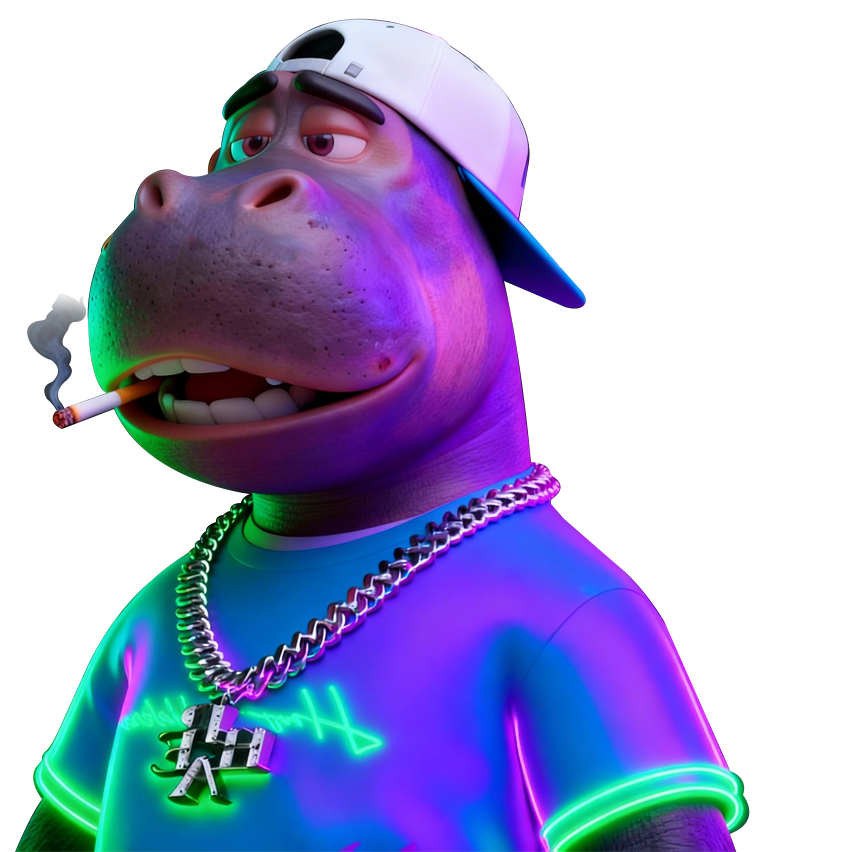
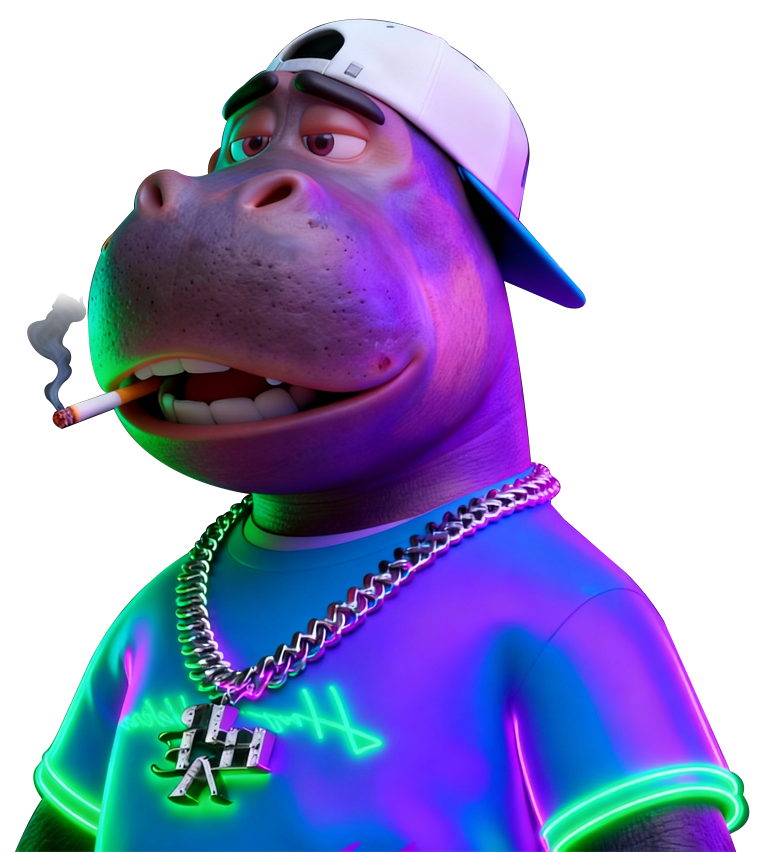
style: Update footer image styling for improved visual presentation and adjust 'hema.png' for enhanced layout consistency.

diff --git a/components/Footer.tsx b/components/Footer.tsx
@@ -67,7 +67,7 @@ const Footer: React.FC = () => {
             alt="Footer Background"
             width={217}
             height={259}
-            className="size-70 object-bottom-right object-contain rounded-[40px]"
+            className="size-70 object-bottom-right object-contain rounded-br-[80px] translate-x-6"
           />
         </div>
         {/* Content */}
